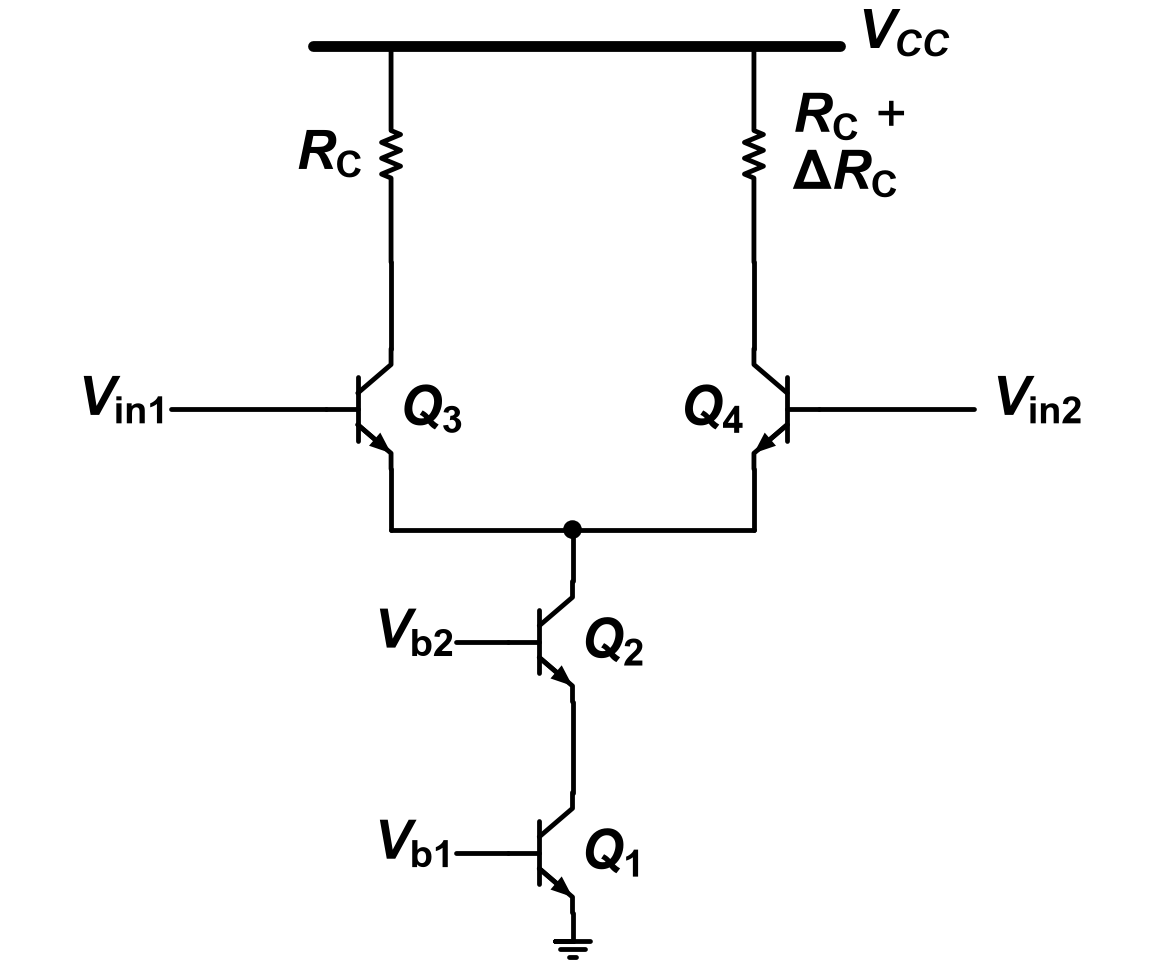
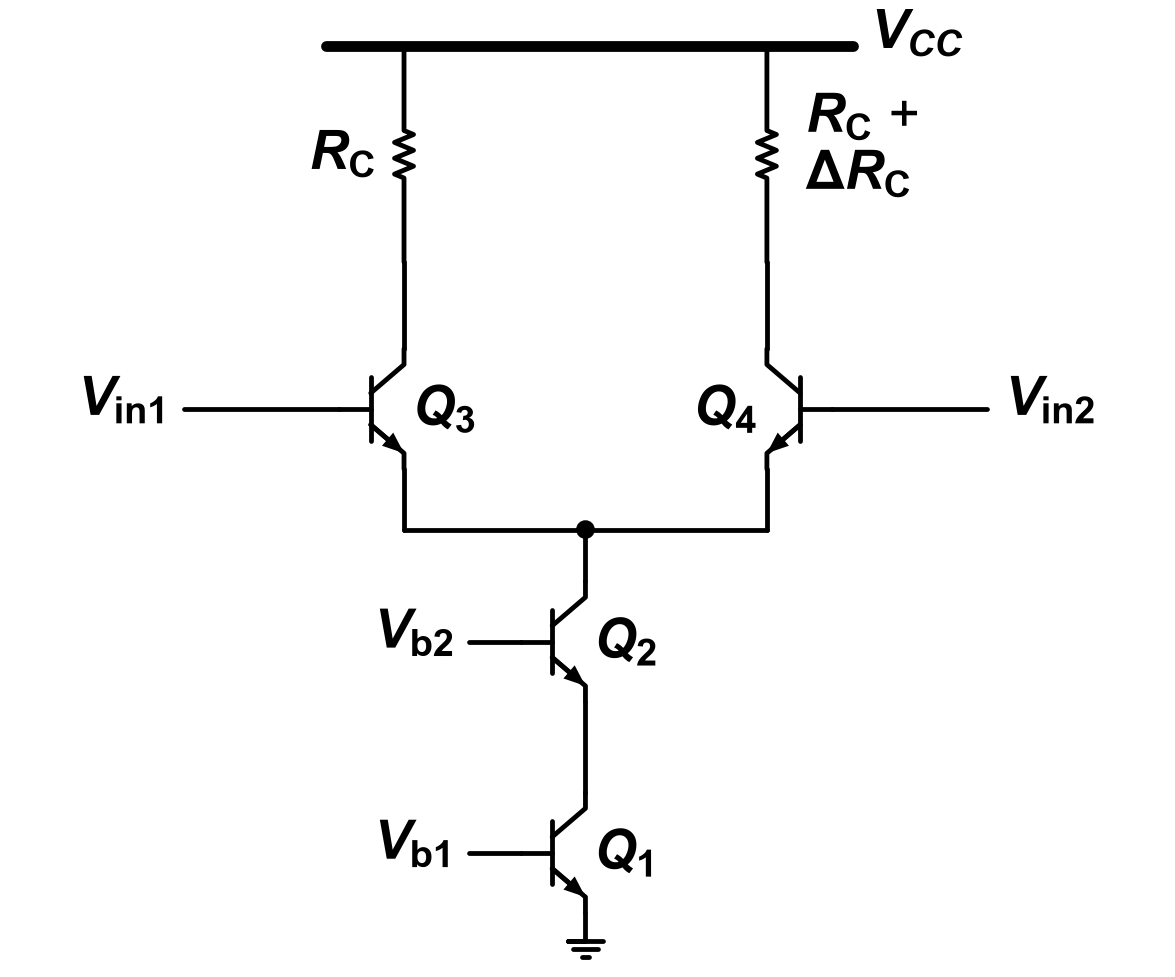
fix(2016-1·2017-1 D반 중간): apply redraw review

diff --git a/from_the_past/md/2017-1_중간_D반/figures/redrawn/fig-Q3.py b/from_the_past/md/2017-1_중간_D반/figures/redrawn/fig-Q3.py
@@ -58,7 +58,7 @@ def panel_a(d, x0):
     vcc_rail(d, xl - 0.4, xr + 0.6)
     x_node, q1, n1 = half_a(d, xl, False)
     y_node, q2, n2 = half_a(d, xr, True)
-    d.add(elm.Label().right().at((xl - 0.25, x_node.center.y - 0.15)).label(r"$X$", halign="right", valign="top"))
+    d.add(elm.Label().right().at((xl - 0.4, x_node.center.y - 0.15)).label(r"$X$", halign="right", valign="top"))
     d.add(elm.Label().right().at((xr + 0.25, y_node.center.y - 0.15)).label(r"$Y$", halign="left", valign="top"))
     vout_pair(d, x_node, y_node, xm)
     open_terminal(d, q1.base, r"$V_\mathrm{in1}$", 0.6)
@@ -104,8 +104,8 @@ def panel_b(d, x0):
     d.add(elm.Line().right().tox(xm)); p = dot(d)
     d.add(elm.Line().right().tox(xr))
     d.add(elm.Line().up().toy(q2.emitter.y))
-    d.add(elm.Label().right().at((xm - 0.2, yt - 0.15)).label(r"$P$", halign="right", valign="top"))
-    d.add(elm.Line().down().at(p.center).length(0.5))
+    d.add(elm.Label().right().at((xm - 0.2, yt - 0.25)).label(r"$P$", halign="right", valign="top"))
+    d.add(elm.Line().down().at(p.center).length(0.7))
     iee = d.add(elm.SourceI().down().length(1.2).scale(0.6).label(r"$I_\mathrm{EE}$", "bottom", ofst=0.3))
     d.add(elm.Ground().at(iee.end).scale(0.8))
     caption(d, (xm, CAP_Y), "(b)")

diff --git a/from_the_past/md/2016-1_중간/figures/redrawn/fig-Q1.py b/from_the_past/md/2016-1_중간/figures/redrawn/fig-Q1.py
@@ -12,7 +12,7 @@ def line_terminal(d, at, label, length, right=False):
     line = elm.Line().at(at).length(length)
     d.add(line.right() if right else line.left())
     x, y = d.here
-    d.add(elm.Label().right().at((x + 0.1 if right else x - 0.1, y))
+    d.add(elm.Label().right().at((x + 0.1 if right else x - 0.25, y))
           .label(label, halign="left" if right else "right"))
 
 
@@ -80,5 +80,5 @@ def draw():
     d.add(elm.Line().at(m1.gate).tox(xref)); vref = dot(d)
     d.add(elm.Line().at(vref.center).tox(m2.gate))
     d.add(elm.Line().down().at(vref.center).length(1.7))
-    d.add(elm.Label().right().at((xref, d.here.y - 0.15)).label(r"$V_\mathrm{REF}$", halign="center", valign="top"))
+    d.add(elm.Label().right().at((xref, d.here.y - 0.3)).label(r"$V_\mathrm{REF}$", halign="center", valign="top"))
     return d

diff --git a/from_the_past/md/2016-1_중간/figures/redrawn/fig-Q3.py b/from_the_past/md/2016-1_중간/figures/redrawn/fig-Q3.py
@@ -63,7 +63,7 @@ def draw():
     d.add(elm.Line().right().tox(xm)); p = dot(d)
     d.add(elm.Line().right().tox(xr))
     d.add(elm.Line().up().toy(q2.emitter.y))
-    d.add(elm.Label().right().at((xm - 0.25, yt - 0.3)).label(r"$P$", halign="right"))
+    d.add(elm.Label().right().at((xm - 0.2, yt - 0.2)).label(r"$P$", halign="right", valign="top"))
     d.add(elm.Line().down().at(p.center).length(0.6))
     iee = d.add(elm.SourceI().down().length(1.6).scale(0.6).label(r"$I_\mathrm{EE}$", "top", ofst=0.3))
     d.add(elm.Ground().at(iee.end).scale(0.8))

diff --git a/from_the_past/md/2016-1_중간/figures/redrawn/fig-Q2.py b/from_the_past/md/2016-1_중간/figures/redrawn/fig-Q2.py
@@ -22,7 +22,7 @@ def line_terminal(d, at, label, length, right=False):
     line = elm.Line().at(at).length(length)
     d.add(line.right() if right else line.left())
     x, y = d.here
-    d.add(elm.Label().right().at((x + 0.1 if right else x - 0.1, y))
+    d.add(elm.Label().right().at((x + 0.1 if right else x - 0.25, y))
           .label(label, halign="left" if right else "right"))
 
 

diff --git a/docs/superpowers/reports/redraw/2016-1_중간.md b/docs/superpowers/reports/redraw/2016-1_중간.md
@@ -1,0 +1,35 @@
+# 2016-1_중간 다시 그린 그림 검토 (절차 C)
+
+- 대상: 3697473 (`fig-Q1`, `fig-Q2`, `fig-Q3`, `fig-Q3-2`의 `.py`, `.png`)
+- `draw_exam.py … --compare`: 종료 코드 0. ERROR·WARN 없음(글자 크기·인쇄 높이 모두 허용 범위). 실행 직후 `git status --short -- from_the_past/md/2016-1_중간`은 비어 있었다. `verify_exam.py --recrop --redraw`: 종료 코드 0, 오류 0개.
+- git 상태: verify 뒤에 `Q1.md`–`Q3.md`가 수정으로 보인다. 파일 시각(20:04–20:08)과 diff를 보면 `## 힌트`·`## 풀이`만 고친 다른 세션의 작업이다. `## 회로` 절과 그림 절은 그대로이고, draw/verify는 md를 쓰지 않는다. `figures/` 아래(크롭·`redrawn/`)는 바뀌지 않았다.
+- 넷리스트: 네 그림의 모든 줄을 따라가며 단자가 적힌 노드에 닿는지 확인했다. 어긋난 연결은 없다. Q1에서 확인한 것: 게이트 공통선(M7 게이트 → n1 게이트 접속점 → M5 게이트 → M5 기호를 지나 M6 게이트), 다이오드 연결(n1 게이트 접속점 → 아래 → 왼쪽 n1 드레인 접속점), n2 → M2 드레인, VREF 접속점 → M1·M2 게이트와 아래 선 끝. Q3에서 확인한 것: Q3 베이스 ← out1 → 출력 원, Q3 이미터 → Q1 컬렉터. Q3-2에서 확인한 것: Q3·Q4 베이스 → 바깥 → 레일, R_C는 이미터 아래.
+- 접속점: Q1 8개(n1 게이트, n1 드레인, out1 첫·둘째, out2 첫·둘째, n2, VREF), Q2 1개(n3), Q3 3개(out1, out2, P), Q3-2 4개(out1, out2, n3, n4). 모두 배치 bullet과 같다. Q1의 게이트 공통선이 M5 채널 막대를 지나는 곳에는 점이 없다(md 교차 bullet과 같음).
+- 반전·화살표: Q1 M7(pmos)·M4·M1 좌우 반전, Q2 Q4, Q3 Q3·Q2, Q3-2 Q4·Q2 좌우 반전. 모두 bullet과 같다. I_REF 화살표는 n1 드레인–M1 세로선 위에서 아래를 향하고, 글자는 왼쪽에 있다. 전류원(I_EE) 화살표는 모두 아래다. npn 이미터 화살표는 모두 바깥이다.
+- 작성자 알림 1 (Q1 pmos·nmos 기호): md는 "pmos 게이트 버블, 화살표 없음"이라 적었지만 공통 `nmos`/`pmos`로 그렸다. pmos(M7·M5·M6)는 위쪽 소스에 채널 쪽으로 들어가는 화살표가 있고, nmos(M1–M4)는 아래쪽 소스에 바깥으로 나가는 화살표가 있다. 위·아래 위치와 화살표 방향이 모두 달라 종류가 바뀌어 보이지 않는다. 허용한다.
+- 작성자 알림 2 (`line_terminal`): `gate_terminal`은 점이나 원을 붙인다. 그래서 md가 "선 끝"이라 한 단자(Q1 V_in1·V_in2, Q2 V_in1·V_in2·V_b1·V_b2)를 `Line`+`Label`로 그린 것은 타당하다. 크기·굵기 지정은 없다. 다만 왼쪽 라벨의 간격이 좁다(아래 지적).
+- 라벨 간격: 따로 잰 값이다(432 dpi, 라벨 잉크와 나머지 잉크의 최소 거리, 단위). 좁은 곳은 Q3 P 0.012(배선·접속점에 닿음), Q2 V_b2 0.035, Q1 V_REF 0.065, Q1 V_in1·Q2 V_in1·Q2 V_b1 0.081, Q2 "R_C +"/"ΔR_C" 0.116이다. 같은 도우미로 그린 오른쪽 V_in2는 0.30이다. 그 밖에는 Q1 R_D 0.185, Q3-2 R_E 0.185, I_EE 0.197, R_C·R_1·R_2 0.208 이상이고, M·Q 라벨은 0.243 이상, V_out은 0.234 이상, V_DD·V_CC는 0.246 이상이다.
+- `.py`: FET는 `nmos`/`pmos`로만 그렸다. BJT는 `elm.BjtNpn`을 `.scale()` 없이 놓았고, `.anchor().at()`는 `d.add()` 전에 붙였다. `.down()` 소자(Resistor, SourceI)의 라벨은 "top"/"bottom"만 쓴다. `.scale()`은 SourceI(0.6)와 Ground(0.8)에만 있다. `FONT_SIZE`, `LW`, `INCHES_PER_UNIT` 재정의나 lw·fontsize 지정, `save_png` 외 저장은 없다. `Arrow(arrowwidth=0.22, arrowlength=0.35)`는 기존 그림과 같은 값이다.
+
+## 지적
+
+| 그림 | 항목 | 문제 | 제안 |
+|---|---|---|---|
+| Q3 | P 라벨 | Important. 라벨 P가 접속점 바로 왼쪽 아래에 있고, 글자 위 끝이 이미터 가로선과 접속점에 닿는다(간격 0.012단위). 인쇄하면 글자가 배선에 붙어 보인다. md "P 접속점 아래 세로선 왼쪽, I_EE 위"와 위치는 맞다. | `fig-Q3.py` 66행 라벨을 `(xm - 0.25, yt - 0.3)`에서 `valign="top"`과 함께 `(xm - 0.2, yt - 0.2)`로 바꾼다(2017-1 D반 Q3(b)와 같은 방식). 또는 y를 0.2단위쯤 내린다. |
+| Q1, Q2 | `line_terminal` 왼쪽 라벨 간격 | Minor. 왼쪽 선 끝 라벨(V_in1, V_b1 0.081, V_b2 0.035)이 선 끝에 거의 붙는다. 오른쪽(V_in2 0.30)과 간격이 다르다. 좌우 모두 0.1단위 오프셋이지만, 글자 상자의 여백이 왼쪽 끝(이탤릭 V)과 오른쪽 끝(첨자)에서 달라 실제 간격이 다르게 나온 것으로 보인다. | `line_terminal`에서 왼쪽일 때 오프셋을 `x - 0.25`쯤으로 늘려 좌우 간격을 맞춘다. |
+| Q1 | V_REF 라벨 | Minor. 아래 세로선 끝과 V_REF 글자 위 끝의 간격이 0.065단위로 좁다. | 83행 `d.here.y - 0.15`를 `- 0.3`쯤으로 바꾼다. |
+
+Critical 지적은 없다.
+
+## 손글씨 확인 (`> 참고:` 항목)
+
+| 그림 | 손글씨 항목 | 다시 그린 그림 |
+|---|---|---|
+| Q1 | n2 접속점 오른쪽 아래의 손글씨 화살표 | 없음 |
+| Q1 | 꼬리 노드 손글씨 라벨 "P" | 없음 (n2에는 라벨 없음) |
+| Q1 | (인쇄) M5 채널 막대를 가로지르는 게이트 공통선 | 원본대로 점 없이 가로지름 |
+| Q2 | 두 컬렉터 옆 손으로 그린 출력 원 | 없음 (컬렉터는 저항–트랜지스터 세로선뿐) |
+| Q2 | "+ Vout −" | 없음 |
+| Q2 | n3 아래 가로 획 | 없음 (n3 → Q2 컬렉터 세로선뿐) |
+| Q2 | "↓ Rout,2" | 없음 |
+| Q3, Q3-2 | 크롭 안 손글씨 없음 (오른쪽 손글씨 화살표·등가회로는 크롭 밖) | 해당 없음. 두 그림 모두 손글씨 획 없음 |

diff --git a/docs/superpowers/reports/redraw/2017-1_중간_D반.md b/docs/superpowers/reports/redraw/2017-1_중간_D반.md
@@ -1,0 +1,46 @@
+# 2017-1_중간_D반 다시 그린 그림 검토 (절차 C)
+
+- 대상: 3697473 (`fig-Q1`, `fig-Q2`, `fig-Q3`, `fig-Q4`, `fig-Q4-2`, `fig-Q5`, `fig-Q6`의 `.py`, `.png`)
+- `draw_exam.py … --compare`: 종료 코드 0. ERROR·WARN 없음(글자 크기·인쇄 높이 모두 허용 범위). `verify_exam.py --recrop --redraw`: 종료 코드 0, 오류 0개. 두 실행 뒤 모두 `git status --short -- from_the_past/md/2017-1_중간_D반`가 비어 있다.
+- 넷리스트: 일곱 그림(패널 11개)의 모든 줄을 따라가며 단자가 적힌 노드에 닿는지 확인했다. 어긋난 연결은 없다. 확인한 곳은 다음과 같다.
+  - Q1(b): Q3 컬렉터 → 아래 → 왼쪽 n1, Q3 이미터 → V_CC.
+  - Q2: (a)는 R_P가 Q1 이미터 아래, (b)는 R_P가 Q_REF 이미터 아래. 다이오드 연결은 위 n1 → 오른쪽 → 아래 n1.
+  - Q3(b): V_b → Q3 베이스 → Q3 막대를 지나 Q4 베이스. R_1·R_2는 직렬이고 가운데 점이 없다.
+  - Q4(a): M3·M4 게이트 → 바깥 → 아래 → 다이오드 접속점.
+  - Q4(b): V_b → M3 게이트 → M3 채널 막대를 지나 M4 게이트. 전류원 두 개는 라벨이 없다.
+  - Q4(c): M3·M4 게이트·드레인 → 레일, 소스 → out. M5·M6 드레인 → 안쪽으로 꺾여 out.
+  - Q5: V_b1 공통선이 M3를 지나 M4로 간다. n1 → M5 → M6.
+  - Q6: P → M3 드레인.
+- 접속점: Q1(a) 0개, Q1(b) 1개, Q2(a)·(b) 각 2개, Q3(a) 4개, Q3(b) 5개, Q4(a) 5개, Q4(b) 4개, Q4(c) 3개(out1·out2 네 갈래), Q5 3개, Q6 3개. 모두 배치 bullet과 같다. Q3(b)·Q4(b)·Q5 게이트(베이스) 공통선이 기호를 지나는 곳에는 점이 없다(md 교차 bullet과 같음).
+- 반전·화살표:
+  - 좌우 반전은 모두 bullet과 같다. Q1(b) Q3(pnp), Q2 Q_REF, Q3(a)·(b) Q2, Q4(a) M4·M2, Q4(b) M2, Q4(c) M4·M6·M2, Q5 M2, Q6 M2가 반전돼 있다.
+  - pnp 화살표(Q1(b) Q3, Q3(b) Q3·Q4)는 막대 쪽을 향한다. pmos 화살표는 채널 쪽, nmos와 npn 화살표는 바깥을 향한다.
+  - 전류원 화살표는 모두 아래다. Q2 I_1 화살표는 Q1 컬렉터 위 선 끝에서 아래로 향하고, 글자는 오른쪽에 있다.
+- 작성자 알림:
+  - 3 (Q1 R_out ┌ 화살표): out 원 오른쪽 0.35단위에 짧은 가로선(0.3)과 아래 방향 Arrow(0.9)가 같은 점에서 시작해 ┌ 모양이 된다. R_out 글자는 가로선 끝 오른쪽, 조금 위에 있다. md "도선 옆 별도 화살표 (┌ 꺾임), 글자는 화살표 오른쪽 위"와 맞고 크롭과도 같다. 타당하다.
+  - 4 (Q3(b) 레일): md에 "굵은"이 없지만, 크롭 (b)의 레일도 (a)와 같은 굵은 가로선이라 `rail`이 맞다. 타당하다.
+  - 5 (Q4(c) M3·M4 드레인): `nmos` 드레인 리드가 이미 바깥으로 꺾여 올라가므로, 드레인에서 레일까지 곧은 세로선이면 md "드레인은 오른쪽으로 나간 선이 위로 꺾여 레일"과 모양이 같다. 게이트 되돌림선(바깥 0.3 → 위)은 M5·M6 드레인 선과 만나지 않는다. 타당하다.
+  - 6 (Q4(c) 캡션·높이): 캡션 (c)는 접지 아래에 따로 놓였고 WARN이 없다. 배치 순서는 크롭과 같다. 타당하다.
+- 라벨 간격: 따로 잰 값이다(432 dpi, 라벨 잉크와 나머지 잉크의 최소 거리, 단위).
+  - 좁은 곳: Q3(a) X 0.049(세로선 왼쪽), Q3(b) P 0.069(가로선 아래), Q1·Q5 V_b2 0.116, V_b3 0.127. 이 둘(V_b2, V_b3)은 `gate_terminal` 기본 라벨이다.
+  - 그 다음으로 좁은 곳: Q4(b) V_b 0.135, Q3(b) V_b 0.140, Q5 M3 0.143, Q4(b) M4 0.150.
+  - 그 밖: R·I 라벨 0.194 이상, M·Q 라벨 0.161 이상, V_out 0.278 이상, V_DD·V_CC 0.211 이상, R_out 0.197.
+  - 겹치는 라벨은 없다.
+- `.py`: FET는 `nmos`/`pmos`로만 그렸다. BJT는 `elm.BjtNpn`/`BjtPnp`를 `.scale()` 없이 놓았고, `.anchor().at()`는 `d.add()` 전에 붙였다. `.down()` 소자(Resistor, SourceI)의 라벨은 "top"/"bottom"만 쓴다. `.scale()`은 SourceI(0.6)와 Ground·Vdd(0.8)에만 있다. `FONT_SIZE`, `LW`, `INCHES_PER_UNIT` 재정의나 lw·fontsize 지정, `save_png` 외 저장은 없다. 캡션은 `caption()`으로 그렸다. Q6 출력 라벨은 md 참고대로 소문자 `v_out1`, `v_out2`다.
+
+## 지적
+
+| 그림 | 항목 | 문제 | 제안 |
+|---|---|---|---|
+| Q3(a) | X 라벨 | Minor. 이탤릭 X의 오른쪽 위 끝이 X 접속점 아래 세로선에 거의 닿는다(0.049단위). Y(0.334)와 좌우가 다르다. | 61행 x를 `xl - 0.25`에서 `xl - 0.4`쯤으로 옮긴다. |
+| Q3(b) | P 라벨 | Minor. P 글자 위 끝이 이미터 가로선 바로 아래에 붙어 있다(0.069단위). | 107행 `yt - 0.15`를 `yt - 0.25`쯤으로 내린다. |
+
+Critical·Important 지적은 없다.
+
+## 손글씨 확인 (`> 참고:` 항목)
+
+| 그림 | 손글씨 항목 | 다시 그린 그림 |
+|---|---|---|
+| Q1, Q2, Q3, Q5 | (`> 참고:` 줄 없음) | — (크롭과 대조했을 때 손글씨 획 없음) |
+| Q4, Q4-2 | 손글씨 항목 없음. (c)를 따로 자른 이유만 적힘 | 해당 없음. (c)는 `fig-Q4-2`로 따로 그렸고 캡션도 (c)다 |
+| Q6 | 손글씨 항목 없음. 출력 라벨 v가 소문자라는 메모 | 소문자 `v_out1`, `v_out2`로 그림 |
